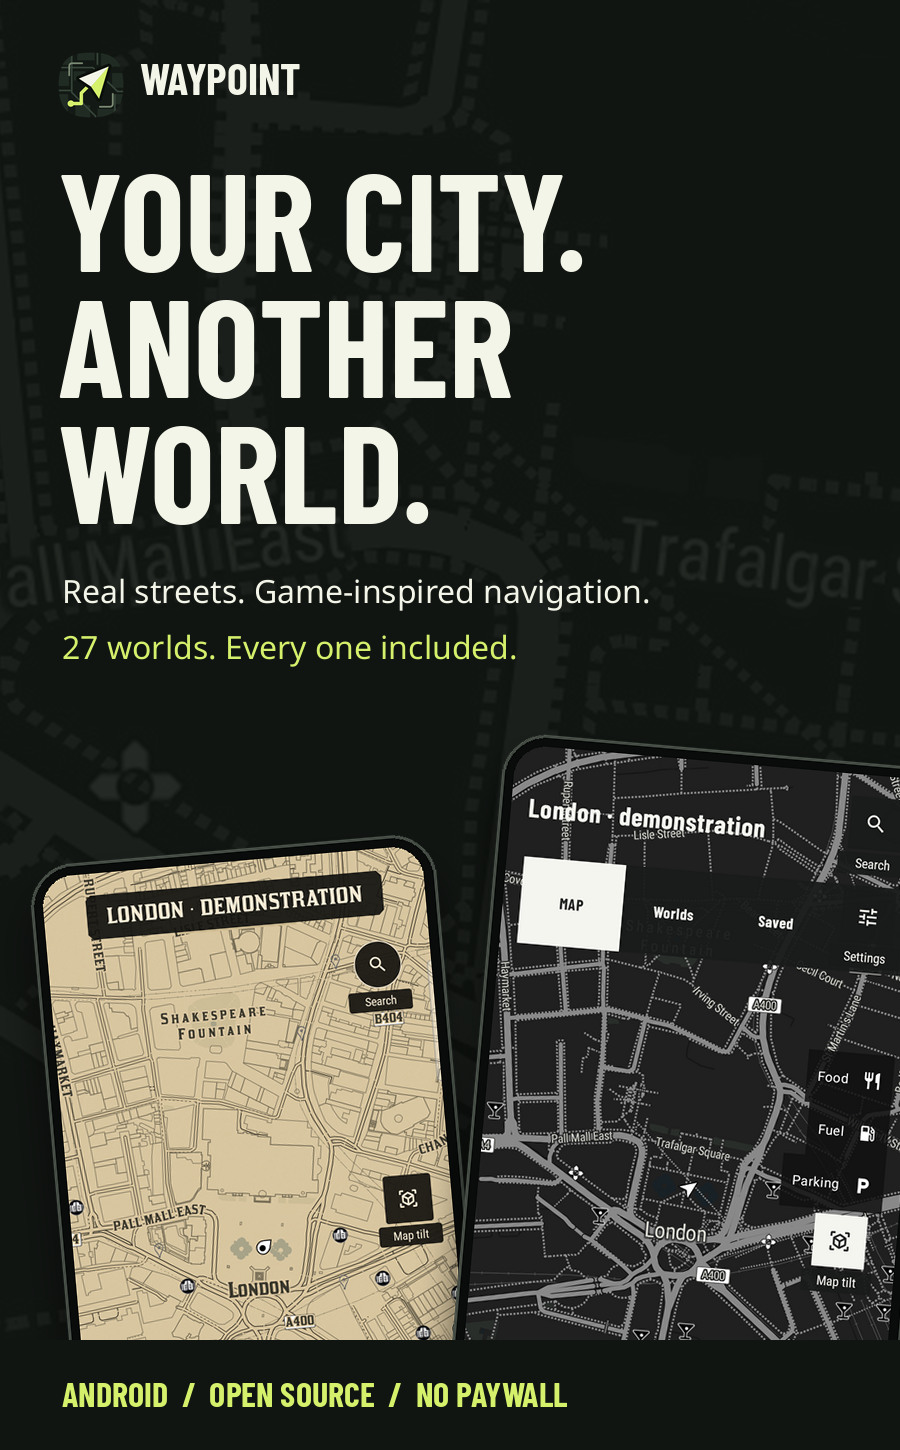
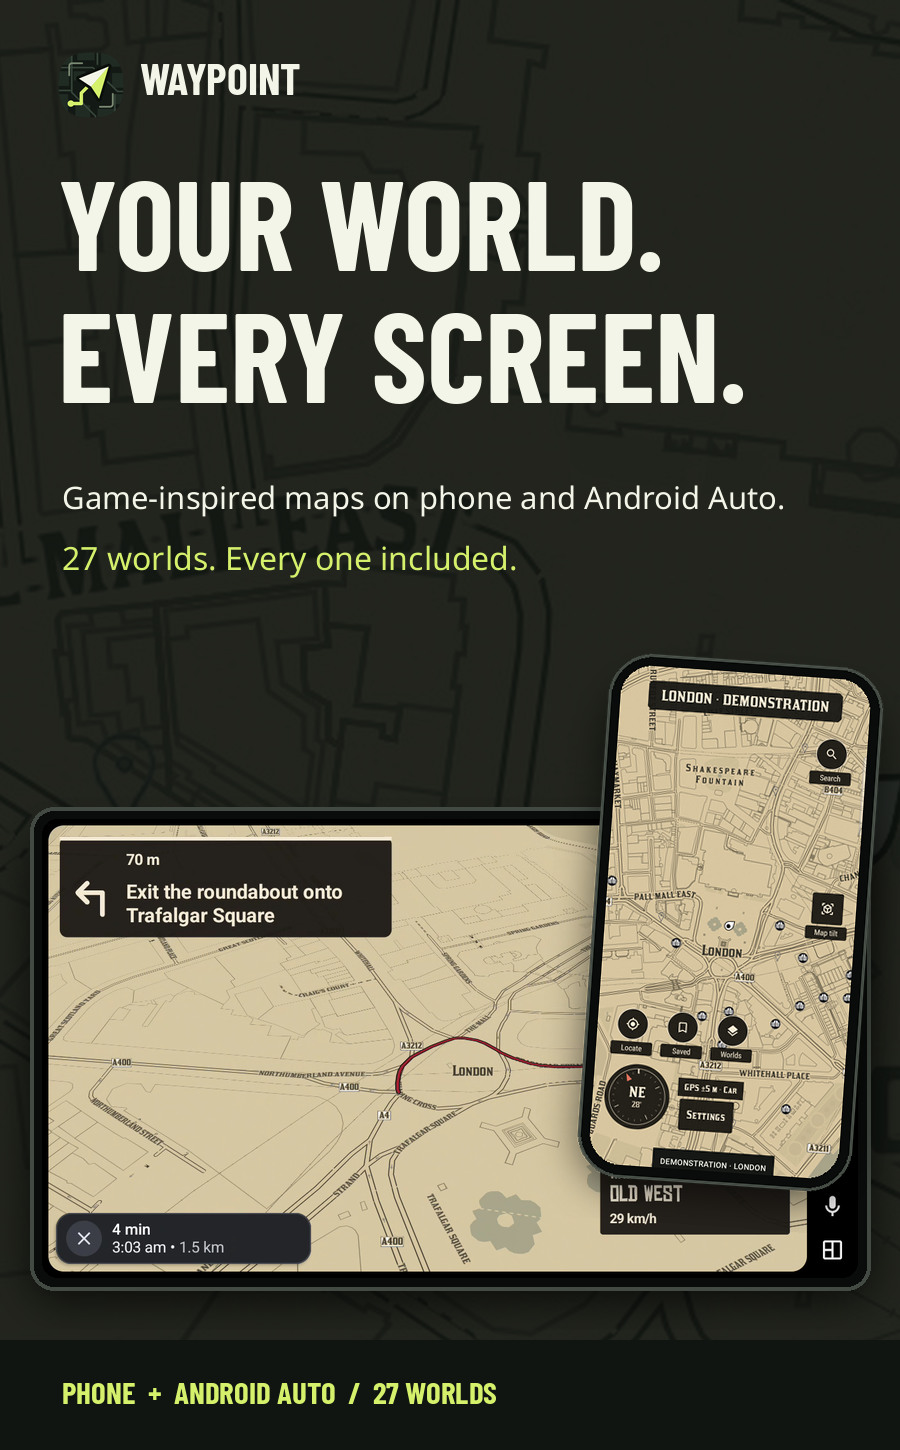
Show phone and Android Auto together in README hero

diff --git a/scripts/create_readme_promo.py b/scripts/create_readme_promo.py
@@ -2,8 +2,8 @@
 """Build original README posters from local, sanitised demo captures.
 
 Requires Pillow. Run from the repository root. No game artwork or personal
-journey screenshots are used. Pass a private capture folder containing the six
-named JPGs; keep captions and the README alt text in sync.
+journey screenshots are used. Pass private phone and Desktop Head Unit capture
+folders; keep captions and the README alt text in sync.
 """
 import argparse
 from pathlib import Path
@@ -14,7 +14,11 @@ IMAGES = ROOT / "docs/images"
 parser = argparse.ArgumentParser()
 parser.add_argument("--captures", type=Path, required=True,
                     help="Local directory with sanitized los-santos.jpg, old-west.jpg, night-city.jpg, rivia.jpg, hyrule.jpg and pixel.jpg")
-CAPTURES = parser.parse_args().captures.resolve()
+parser.add_argument("--car-captures", type=Path, required=True,
+                    help="Local directory with the sanitized old-west-guidance.png Desktop Head Unit capture")
+ARGS = parser.parse_args()
+CAPTURES = ARGS.captures.resolve()
+CAR_CAPTURES = ARGS.car_captures.resolve()
 OUT = IMAGES / "promo"
 OUT.mkdir(exist_ok=True)
 FONTS = ROOT / "app/src/main/res/font"
@@ -68,6 +72,29 @@ def phone(canvas, name, x, y, width, angle=0):
     canvas.paste(device, (x - margin, y - margin), device)
 
 
+def car_screen(canvas, x, y, width):
+    shot = Image.open(CAR_CAPTURES / "old-west-guidance.png").convert("RGBA")
+    assert shot.width * 9 == shot.height * 16, "The car capture must be a 16:9 Desktop Head Unit screenshot"
+    height = round(width * 9 / 16)
+    shot = shot.resize((width, height), Image.Resampling.LANCZOS)
+    margin, bezel = 52, 12
+    device = Image.new("RGBA", (width + margin * 2, height + margin * 2))
+    shadow = Image.new("RGBA", device.size)
+    ImageDraw.Draw(shadow).rounded_rectangle(
+        (margin - 12, margin + 18, margin + width + 12, margin + height + 22),
+        28, fill=(0, 0, 0, 170),
+    )
+    device.alpha_composite(shadow.filter(ImageFilter.GaussianBlur(20)))
+    ImageDraw.Draw(device).rounded_rectangle(
+        (margin - bezel, margin - bezel, margin + width + bezel, margin + height + bezel),
+        24, fill="#090C0A", outline="#434A43", width=4,
+    )
+    mask = Image.new("L", shot.size)
+    ImageDraw.Draw(mask).rounded_rectangle((0, 0, width - 1, height - 1), 15, fill=255)
+    device.paste(shot, (margin, margin), mask)
+    canvas.paste(device, (x - margin, y - margin), device)
+
+
 def brand(canvas, x, y, size=62):
     mark = Image.open(IMAGES / "waypoint-icon.png").convert("RGBA")
     mark = mark.resize((size, size), Image.Resampling.LANCZOS)
@@ -82,25 +109,25 @@ def save(image, name):
 
 
 def hero(mobile=False):
-    canvas = map_surface((900, 1450) if mobile else (1600, 980), "los-santos")
+    canvas = map_surface((900, 1450) if mobile else (1600, 980), "old-west")
     brand(canvas, 58 if mobile else 70, 52, 66)
     if mobile:
-        lines(canvas, ["YOUR CITY.", "ANOTHER", "WORLD."], 58, 174, 137, 126)
-        text(canvas, "Real streets. Game-inspired navigation.", 62, 578, 32, display=False)
-        text(canvas, "27 worlds. Every one included.", 62, 634, 32, LIME, False)
-        phone(canvas, "old-west", 35, 840, 382, 5)
-        phone(canvas, "los-santos", 438, 739, 422, -5)
+        lines(canvas, ["YOUR WORLD.", "EVERY SCREEN."], 58, 181, 126, 132)
+        text(canvas, "Game-inspired maps on phone and Android Auto.", 62, 485, 31, display=False)
+        text(canvas, "27 worlds. Every one included.", 62, 545, 32, LIME, False)
+        car_screen(canvas, 42, 819, 816)
+        phone(canvas, "old-west", 584, 660, 250, -4)
         ImageDraw.Draw(canvas).rectangle((0, 1340, 900, 1450), fill=INK)
-        text(canvas, "ANDROID  /  OPEN SOURCE  /  NO PAYWALL", 62, 1383, 34, LIME)
+        text(canvas, "PHONE  +  ANDROID AUTO  /  27 WORLDS", 62, 1383, 31, LIME)
     else:
-        lines(canvas, ["YOUR CITY.", "ANOTHER", "WORLD."], 70, 204, 158, 145)
-        text(canvas, "Real streets. Game-inspired navigation.", 76, 711, 29, display=False)
+        lines(canvas, ["YOUR WORLD.", "EVERY", "SCREEN."], 70, 204, 154, 147)
+        text(canvas, "Game-inspired maps on phone and Android Auto.", 76, 711, 27, display=False)
         text(canvas, "27 worlds. Every one included.", 76, 764, 29, LIME, False)
-        phone(canvas, "old-west", 844, 251, 352, 6)
-        phone(canvas, "los-santos", 1175, 132, 365, -5)
+        car_screen(canvas, 810, 397, 730)
+        phone(canvas, "old-west", 1234, 209, 270, -4)
         ImageDraw.Draw(canvas).rectangle((0, 885, 1600, 980), fill=INK)
-        text(canvas, "ANDROID  /  OPEN SOURCE  /  NO PAYWALL", 76, 920, 29, LIME)
-        text(canvas, "CAR  ·  MOTORCYCLE  ·  WALK", 1125, 920, 29)
+        text(canvas, "PHONE  +  ANDROID AUTO", 76, 920, 31, LIME)
+        text(canvas, "REAL STREETS  ·  27 WORLDS", 1135, 920, 27)
     save(canvas, "hero-mobile.jpg" if mobile else "hero.jpg")
 
 

diff --git a/docs/images/promo/README.md b/docs/images/promo/README.md
@@ -6,8 +6,8 @@ Original promotional compositions built from sanitised Waypoint Android captures
 - **Android Auto screens:** `old-west-guidance.png` and `night-city-guidance.png` are actual 1280 × 720 Desktop Head Unit screenshots. The opt-in `CarReadmeCaptureTest` feeds a public London route and simulated guidance state to the projected Waypoint session, then switches the phone-selected world. The screenshots show the host controls and the app's real map/template rendering; they do not represent a physical drive or the phone's location.
 - **Identity:** the original `waypoint-icon.png`, rendered from the Android adaptive icon.
 - **Typography:** Barlow Condensed and Noto Sans from `app/src/main/res/font`, under their existing [font licenses](../../licenses/).
-- **Generators:** `python3 scripts/create_readme_promo.py --captures /path/to/sanitised-phone-captures` and `python3 scripts/create_car_readme_promo.py --captures /path/to/dhu-captures` from the repository root; both require Pillow. The capture folders must be outside the repository or under ignored `docs/images/captures/`.
-- **Responsive art:** the README uses wide posters on desktop and portrait compositions below 640px. `android-auto.jpg` and `android-auto-mobile.jpg` show two worlds on the same simulated route. Only the finished images used by the README are committed.
+- **Generators:** `python3 scripts/create_readme_promo.py --captures /path/to/sanitised-phone-captures --car-captures /path/to/dhu-captures` and `python3 scripts/create_car_readme_promo.py --captures /path/to/dhu-captures` from the repository root; both require Pillow. The capture folders must be outside the repository or under ignored `docs/images/captures/`.
+- **Responsive art:** the README uses wide posters on desktop and portrait compositions below 640px. The opening hero pairs the Old West phone map with actual Android Auto guidance in the same world. `android-auto.jpg` and `android-auto-mobile.jpg` show two worlds on the same simulated route. Only the finished images used by the README are committed.
 - **Privacy:** no user-provided routes, place queries, device identifiers, notification icons, home/work locations or personal screenshots belong in these assets. Use fixed public landmarks or fictional fixtures for public examples. Keep private QA captures outside Git.
 
 The artwork is not supplied by, or affiliated with, any referenced game or publisher. Game names identify inspiration only. OpenStreetMap/OpenFreeMap attribution is available inside the app through Map info and in the root README.

diff --git a/README.md b/README.md
@@ -1,7 +1,7 @@
 <div align="center">
   <picture>
     <source media="(max-width: 640px)" srcset="docs/images/promo/hero-mobile.jpg" />
-    <img src="docs/images/promo/hero.jpg" width="100%" alt="Waypoint: real streets with game-inspired map styles, shown in two Android map views." />
+    <img src="docs/images/promo/hero.jpg" width="100%" alt="Waypoint's Old West map on a phone beside Android Auto guidance in the same world, using public London demonstration captures." />
   </picture>
   <p><strong>Real streets. Another world.</strong><br />27 game-inspired maps, live navigation and spoken directions on your phone and Android Auto.<br /><sub>Made in India · Open to the world</sub></p>
   <p>
